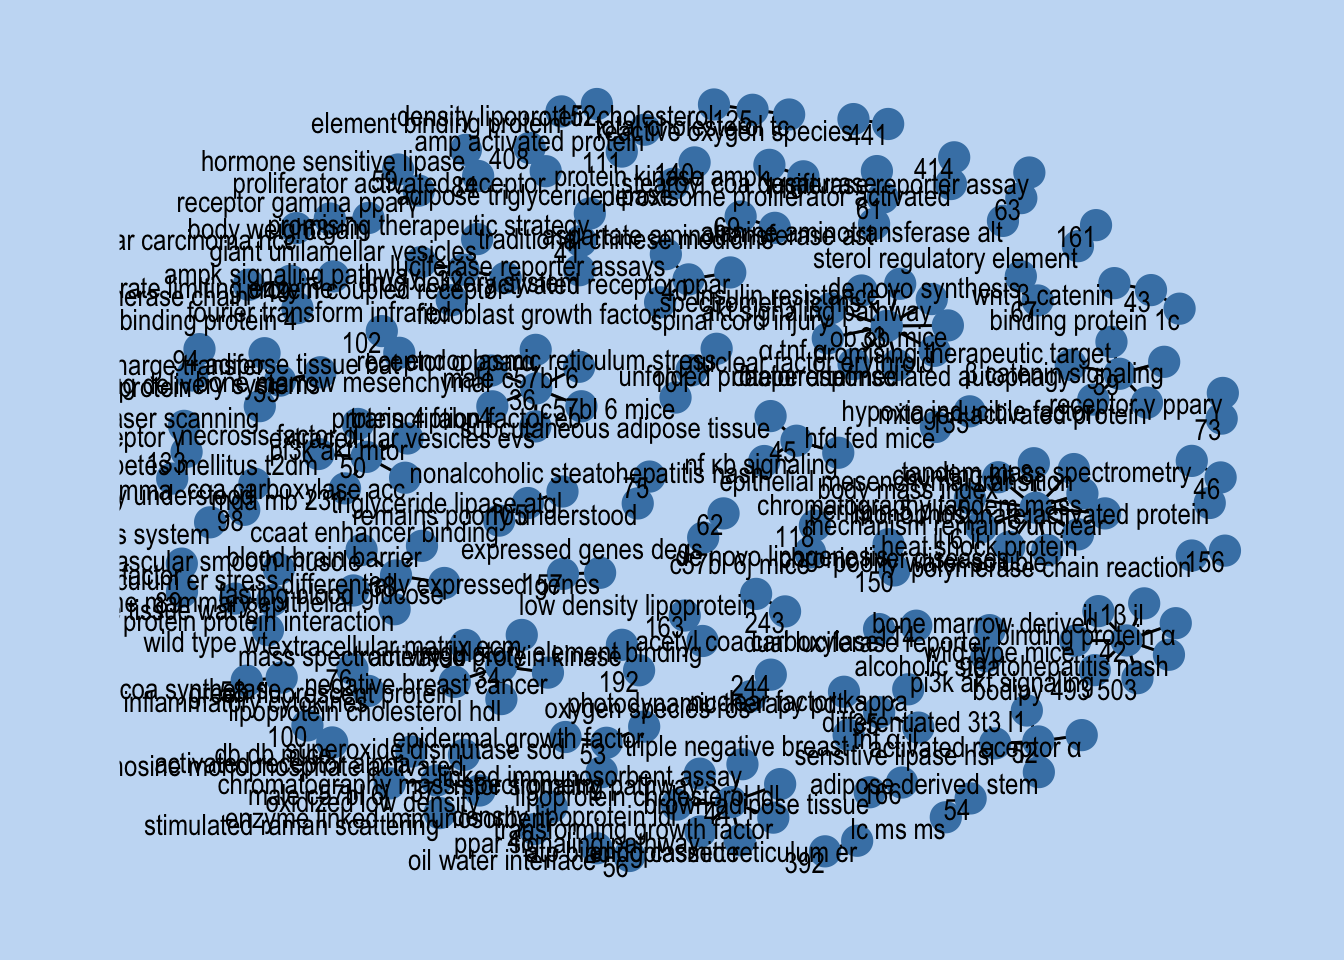
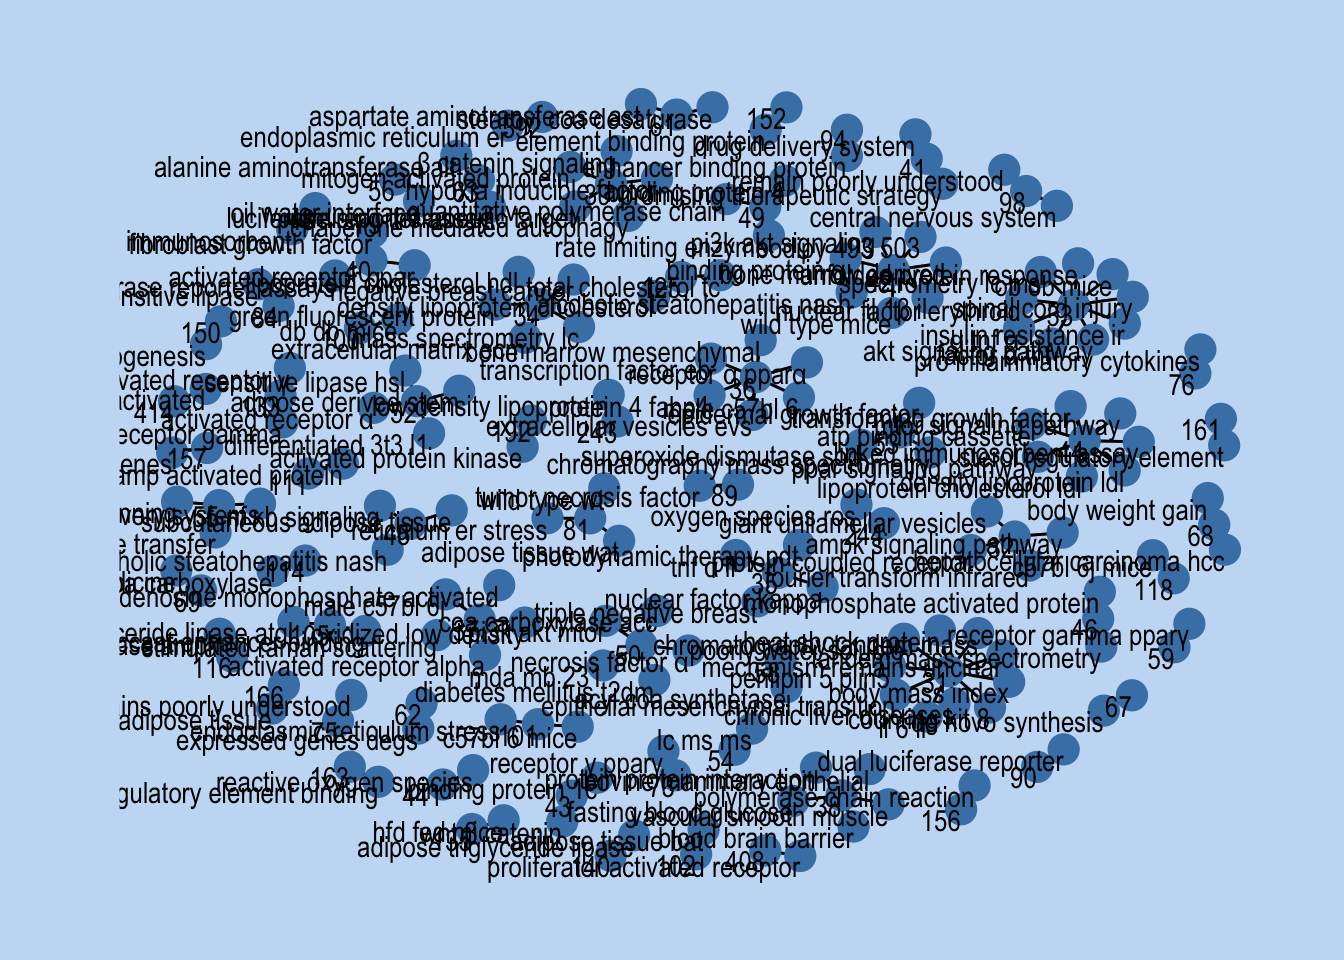
render to html pt2

diff --git a/Project/MP1/MP1.html b/Project/MP1/MP1.html
@@ -121,7 +121,7 @@ ul.task-list li input[type="checkbox"] {
 </div>
 <p>Turns out that many of them are all very common names, and after observing, we can almost conclusively say that each individual there is different, and they come from different institutions. So now, I check for a combination of author-institution.</p>
 <p>Good enough for me! Even though I believe we missed a couple authors here and there, because of the enormous inconsistency in how the institution was reported in literature publications, we received some good results, and we can focus on this for our text analysis.</p>
-<p>Note: The behind-the-scene codes can be found in my Github repository.</p>
+<p>Note: The behind-the-scene codes can be found in <a href="https://github.com/cyneollie/SDS264_S26/blob/a8b60efb632c3eaffc6b2d40e292885a9c1590a3/Project/MP1/MP1.qmd">my Github repository</a>.</p>
 <div class="cell">
 <div class="cell-output cell-output-stderr">
 <pre><code>Joining with `by = join_by(word)`</code></pre>
